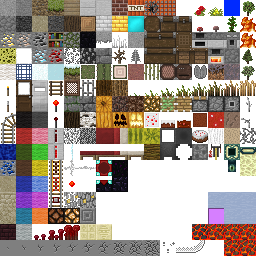
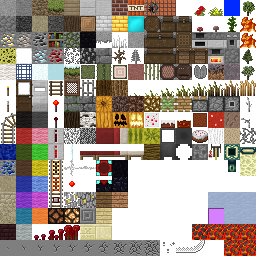
update to Minecraft 1.2.4

Changed region(s): [[0.3125, 0.75, 0.5, 0.9375]]

diff --git a/MinewaysMap/ObjFileManip.c b/MinewaysMap/ObjFileManip.c
@@ -1942,20 +1942,19 @@ static int saveBillboardFaces( int boxIndex, int type, int billboardType )
     case BLOCK_SAPLING:
         switch ( dataVal & 0x3 )
         {
-        case 0:
-        default:
+        case 0: // OAK
             // set OK already
             break;
         case 1:
-            swatchLoc = SWATCH_INDEX(15,4);
-            // spruce
+			// spruce
+            swatchLoc = SWATCH_INDEX(15,3);
             break;
         case 2:
             // birch
-            swatchLoc = SWATCH_INDEX(15,3);
+            swatchLoc = SWATCH_INDEX(15,4);
             break;
+		default:
         case 3:
-        case 4:
             // jungle
             //if ( gJungleExists )
             //{
@@ -4856,7 +4855,10 @@ static int getSwatch( int type, int dataVal, int faceDirection, int backgroundIn
             break;
         case BLOCK_DOUBLE_SLAB:
         case BLOCK_STONE_SLAB:
-            switch ( dataVal )
+			// The topmost bit is about whether the half-slab is in the top half or bottom half (used to always be bottom half).
+			// Since we're exporting full blocks, we don't care, and so mask off this 0x8 bit.
+			// See http://www.minecraftwiki.net/wiki/Block_ids#Slabs_and_Double_Slabs
+            switch ( dataVal & 0x7 )
             {
             default:
                 assert(0);
@@ -4889,30 +4891,50 @@ static int getSwatch( int type, int dataVal, int faceDirection, int backgroundIn
                 break;
             }
             break;
-        case BLOCK_LOG:
-            // use data to figure out which side
-            switch ( dataVal )
-            {
-            case 1: // spruce
-                SWATCH_SWITCH_SIDE( faceDirection, 4,7 );
-                break;
-            case 2: // birch
-                SWATCH_SWITCH_SIDE( faceDirection, 5,7 );
-                break;
-            case 3: // jungle
-                //if ( gJungleExists )
-                //{
-                    SWATCH_SWITCH_SIDE( faceDirection, 9,9 );
-                //}
-                //else
-                //{
-                //    SWATCH_SWITCH_SIDE( faceDirection, 4,1 );
-                //}
-                break;
-            default: // normal log
-                SWATCH_SWITCH_SIDE( faceDirection, 4,1 );
-            }
-            break;
+		case BLOCK_LOG:
+			// use data to figure out which side
+			switch ( dataVal )
+			{
+			case 1: // spruce (dark)
+				SWATCH_SWITCH_SIDE( faceDirection, 4,7 );
+				break;
+			case 2: // birch
+				SWATCH_SWITCH_SIDE( faceDirection, 5,7 );
+				break;
+			case 3: // jungle
+				//if ( gJungleExists )
+				//{
+				SWATCH_SWITCH_SIDE( faceDirection, 9,9 );
+				//}
+				//else
+				//{
+				//    SWATCH_SWITCH_SIDE( faceDirection, 4,1 );
+				//}
+				break;
+			default: // normal log
+				SWATCH_SWITCH_SIDE( faceDirection, 4,1 );
+			}
+			break;
+		case BLOCK_WOODEN_PLANKS:
+			// use data to figure out which type of wood
+			switch ( dataVal )
+			{
+			default: // normal log
+				assert(0);
+			case 0:
+				// no change, default plank is fine
+				break;
+			case 1: // spruce (dark)
+				swatchLoc = SWATCH_INDEX( 6,12 );
+				break;
+			case 2: // birch
+				swatchLoc = SWATCH_INDEX( 6,13 );
+				break;
+			case 3: // jungle
+				swatchLoc = SWATCH_INDEX( 7,12 );
+				break;
+			}
+			break;
         case BLOCK_LEAVES:
             // if we're using print export, go with the non-fancy leaves (not transparent)
             col = ( gOptions->exportFlags & EXPT_3DPRINT ) ? 5 : 4;
@@ -5027,7 +5049,27 @@ static int getSwatch( int type, int dataVal, int faceDirection, int backgroundIn
             swatchLoc = getCompositeSwatch( swatchLoc, backgroundIndex, faceDirection, 0 );
             break;
         case BLOCK_SANDSTONE:
-            SWATCH_SWITCH_SIDE_BOTTOM( faceDirection, 0,12, 0,13 );
+			// top is always sandy, just leave it be
+			if ( faceDirection != DIRECTION_BLOCK_TOP )
+			{
+				// something must be done
+				// use data to figure out which type of sandstone
+				switch ( dataVal )
+				{
+				default: // normal sandstone, which has a bottom that's also the same as the side
+					assert(0);
+				case 0:
+					// bottom does get changed
+					SWATCH_SWITCH_SIDE_BOTTOM( faceDirection, 0,12, 0,13 );
+					break;
+				case 1: // creeper - bottom unchanged
+					SWATCH_SWITCH_SIDE( faceDirection, 5,14 );
+					break;
+				case 2: // smooth - bottom unchanged
+					SWATCH_SWITCH_SIDE( faceDirection, 6,14 );
+					break;
+				}
+			}
             break;
         case BLOCK_NOTEBLOCK:
             SWATCH_SWITCH_SIDE( faceDirection, 10,4 );
@@ -5547,6 +5589,10 @@ static int getSwatch( int type, int dataVal, int faceDirection, int backgroundIn
             case 2:
                 // cracked
                 swatchLoc = SWATCH_INDEX( 5, 6 );
+                break;
+			case 3:
+				// circle - added in 1.2.4
+				swatchLoc = SWATCH_INDEX( 5, 13 );
                 break;
             }
             break;
